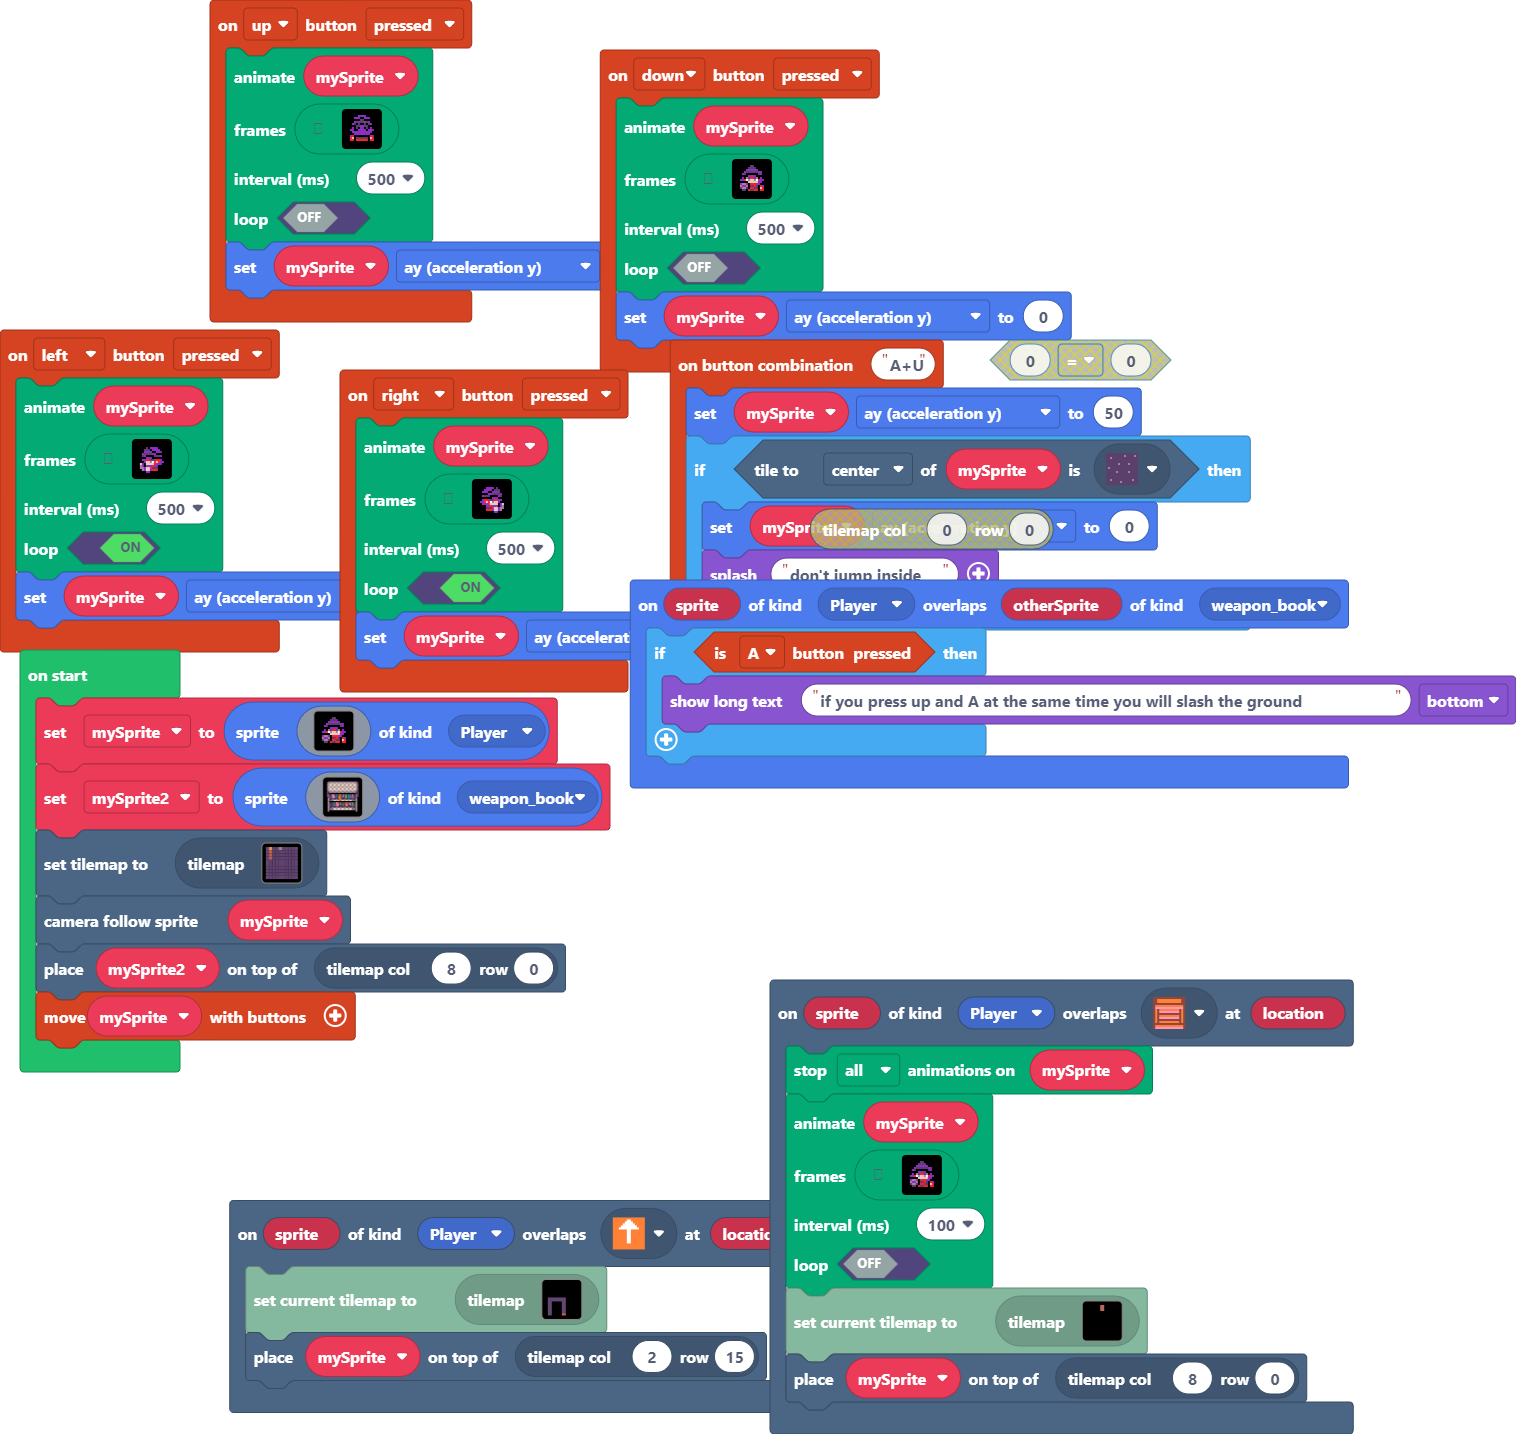
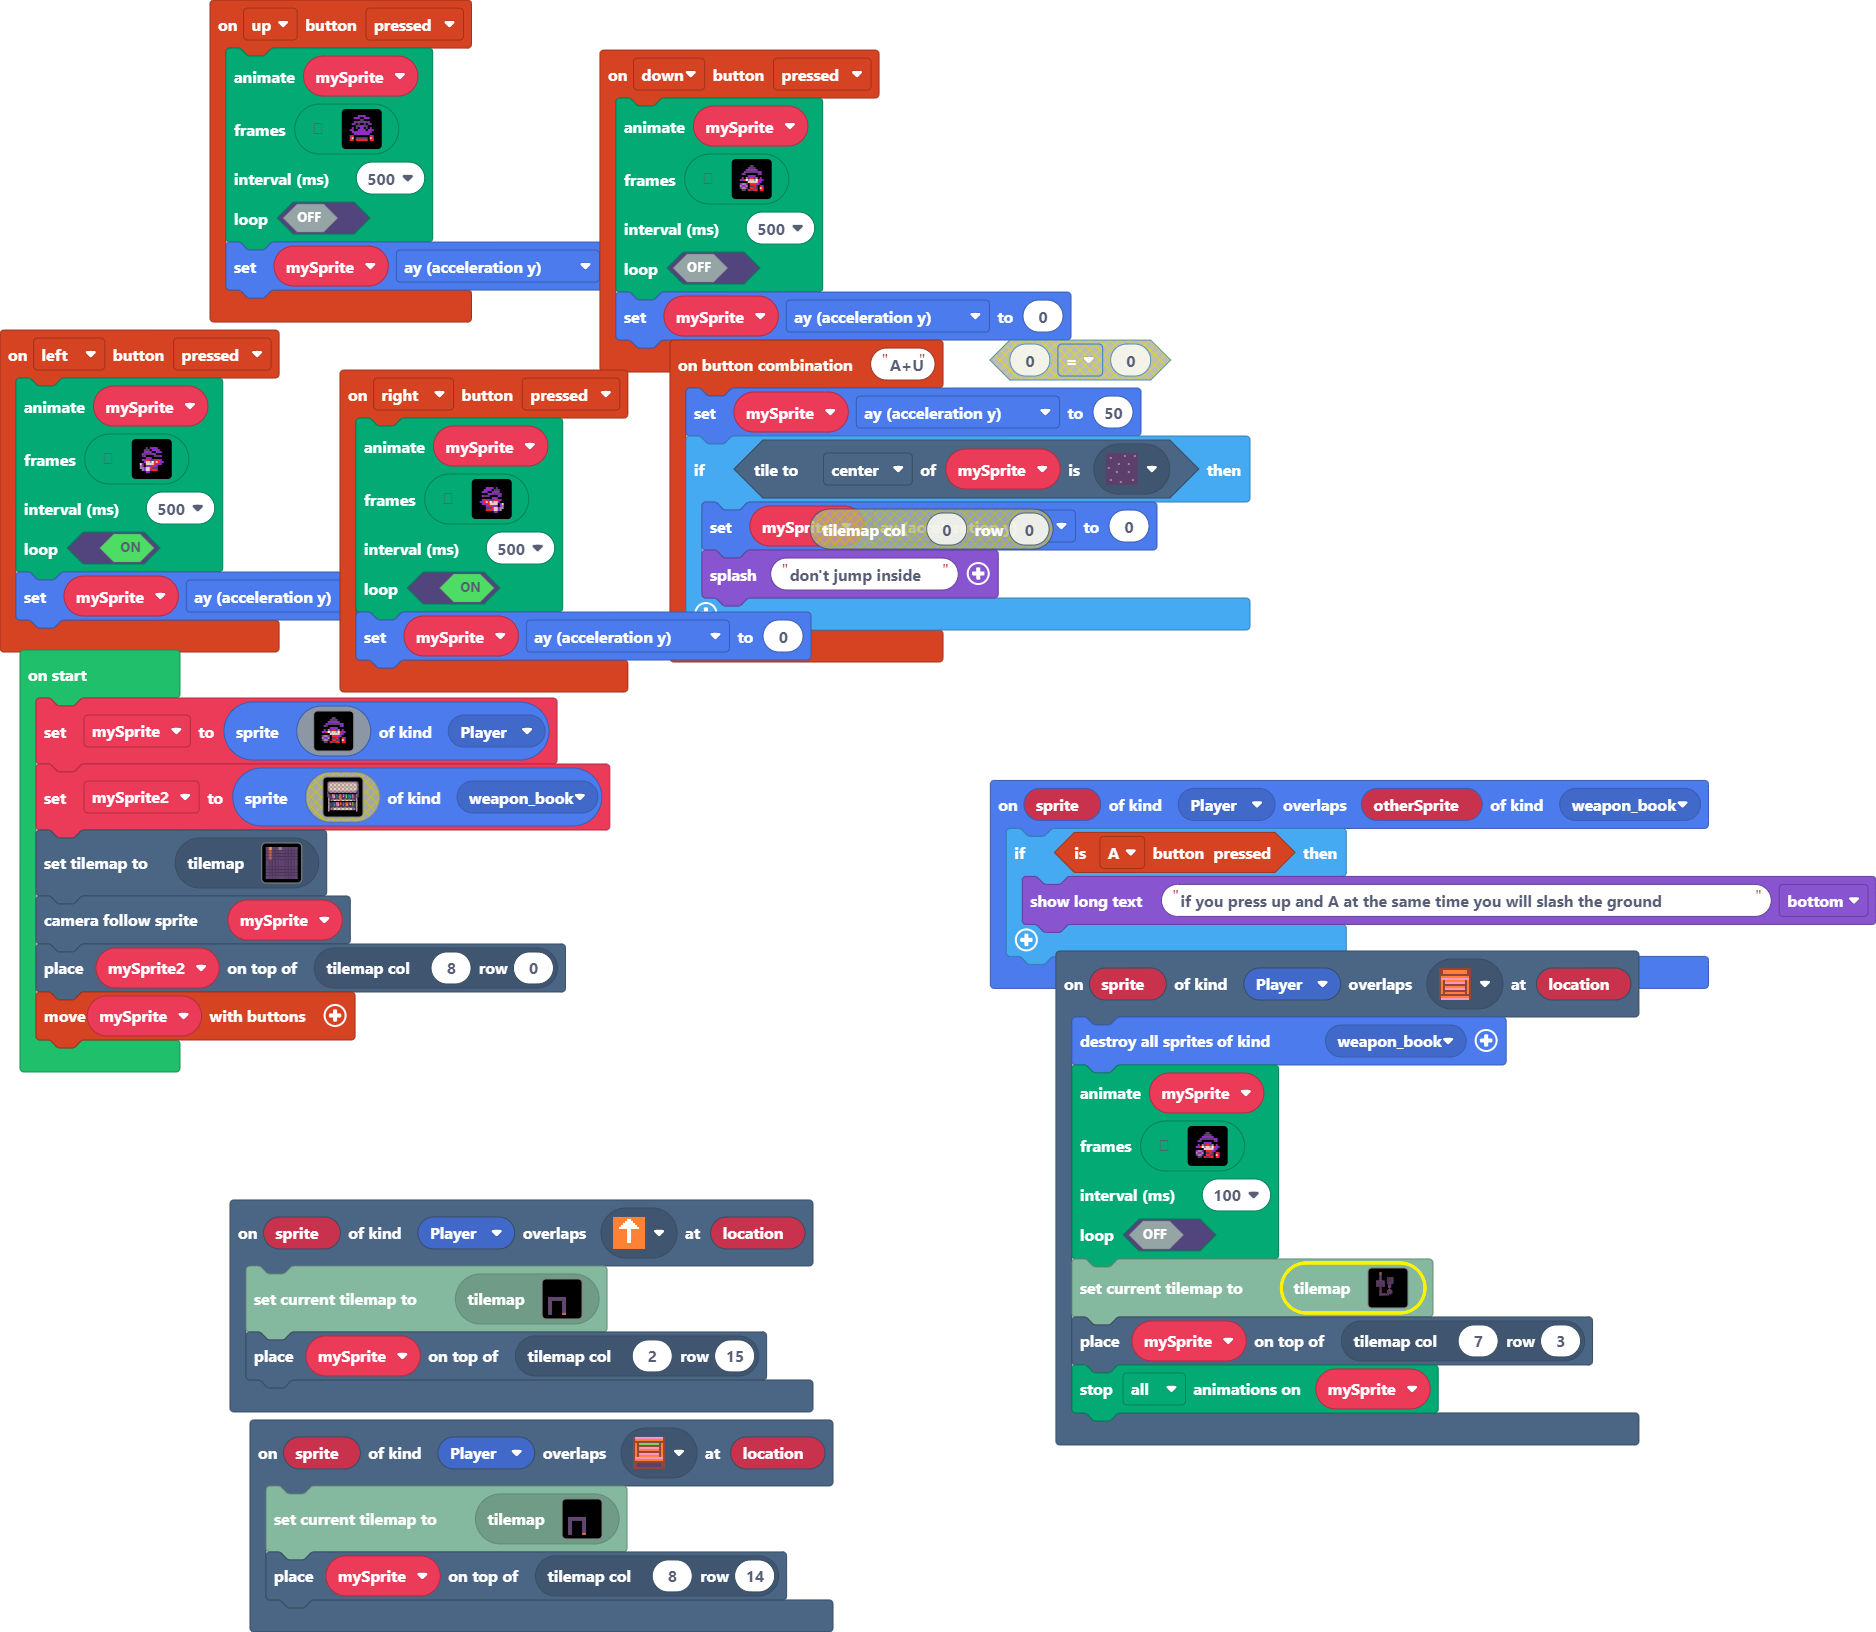
Update main.blocks, main.ts, tilemap.g.jres, tilemap.g.ts

diff --git a/tilemap.g.ts b/tilemap.g.ts
@@ -14,6 +14,12 @@ namespace myTiles {
     export const tile6 = image.ofBuffer(hex``);
     //% fixedInstance jres blockIdentity=images._tile
     export const tile5 = image.ofBuffer(hex``);
+    //% fixedInstance jres blockIdentity=images._tile
+    export const tile7 = image.ofBuffer(hex``);
+    //% fixedInstance jres blockIdentity=images._tile
+    export const tile8 = image.ofBuffer(hex``);
+    //% fixedInstance jres blockIdentity=images._tile
+    export const tile9 = image.ofBuffer(hex``);
 
     helpers._registerFactory("tilemap", function(name: string) {
         switch(helpers.stringTrim(name)) {
@@ -48,26 +54,78 @@ namespace myTiles {
 2 . . 2 . . . 2 . . 2 . . . . . 
 2 . . 2 . . . 2 . . 2 . . . . . 
 2 . . 2 . . . 2 . . 2 . . . . . 
-`, [myTiles.transparency16,sprites.dungeon.darkGroundWest,sprites.dungeon.darkGroundEast,sprites.dungeon.darkGroundNorthWest0,sprites.dungeon.darkGroundNorth,sprites.dungeon.darkGroundSouth,sprites.dungeon.darkGroundCenter,sprites.dungeon.darkGroundNorthEast0,myTiles.tile2,myTiles.tile5,myTiles.tile6], TileScale.Sixteen);
+`, [myTiles.transparency16,sprites.dungeon.darkGroundWest,sprites.dungeon.darkGroundEast,sprites.dungeon.darkGroundNorthWest0,sprites.dungeon.darkGroundNorth,sprites.dungeon.darkGroundSouth,sprites.dungeon.darkGroundCenter,sprites.dungeon.darkGroundNorthEast0,myTiles.tile6], TileScale.Sixteen);
+            case "level4":
+            case "level4":return tiles.createTilemap(hex`1000100000000000000000000000000000000000000000000000000000000000000000000000000000000000000000000000000000000000000000000000000000000000000000000000000000000000000000000000000000000000000000000000000000000000000000000000000000000000000000000000000000000000000000000000000000000000000000000000000000000000000000000000000000000000000000000000000000000000000000000000000000000000000000000000000000000000000000000000000000000000000000000000000000000000000000000000000000000000000000000000000000000000000000000000000000000000`, img`
+. . . . . . . . . . . . . . . . 
+. . . . . . . . . . . . . . . . 
+. . . . . . . . . . . . . . . . 
+. . . . . . . . . . . . . . . . 
+. . . . . . . . . . . . . . . . 
+. . . . . . . . . . . . . . . . 
+. . . . . . . . . . . . . . . . 
+. . . . . . . . . . . . . . . . 
+. . . . . . . . . . . . . . . . 
+. . . . . . . . . . . . . . . . 
+. . . . . . . . . . . . . . . . 
+. . . . . . . . . . . . . . . . 
+. . . . . . . . . . . . . . . . 
+. . . . . . . . . . . . . . . . 
+. . . . . . . . . . . . . . . . 
+. . . . . . . . . . . . . . . . 
+`, [myTiles.transparency16], TileScale.Sixteen);
+            case "level5":
+            case "level5":return tiles.createTilemap(hex`1000100000000000000000000000000000000000000000000000000000000000000000000000000000000000000000000000000000000000000000000000000000000000000000000000000000000000000000000000000000000000000000000000000000000000000000000000000000000000000000000000000000000000000000000000000000000000000000000000000000000000000000000000000000000000000000000000000000000000000000000000000000000000000000000000000000000000000000000000000000000000000000000000000000000000000000000000000000000000000000000000000000000000000000000000000000000000`, img`
+. . . . . . . . . . . . . . . . 
+. . . . . . . . . . . . . . . . 
+. . . . . . . . . . . . . . . . 
+. . . . . . . . . . . . . . . . 
+. . . . . . . . . . . . . . . . 
+. . . . . . . . . . . . . . . . 
+. . . . . . . . . . . . . . . . 
+. . . . . . . . . . . . . . . . 
+. . . . . . . . . . . . . . . . 
+. . . . . . . . . . . . . . . . 
+. . . . . . . . . . . . . . . . 
+. . . . . . . . . . . . . . . . 
+. . . . . . . . . . . . . . . . 
+. . . . . . . . . . . . . . . . 
+. . . . . . . . . . . . . . . . 
+. . . . . . . . . . . . . . . . 
+`, [myTiles.transparency16], TileScale.Sixteen);
             case "level3":
-            case "level3":return tiles.createTilemap(hex`1000100000000000000000010100000000000000000000000000000101000000000000000000000000000001010000000000000000000000000000000000000000000000000000000000000000000000000000000000000000000000000000000000000000000000000000000000000000000000000000000000000000000000000000000000000000000000000000000000000000000000000000000000000000000000000000000000000000000000000000000000000000000000000000000000000000000000000000000000000000000000000000000000000000000000000000000000000000000000000000000000000000000000000000000000000000000000`, img`
-. . . . . . 2 . . 2 . . . . . . 
-. . . . . . 2 . . 2 . . . . . . 
-. . . . . . 2 . . 2 . . . . . . 
-. . . . . . 2 . . 2 . . . . . . 
-. . . . . . . . . . . . . . . . 
-. . . . . . . . . . . . . . . . 
-. . . . . . . . . . . . . . . . 
-. . . . . . . . . . . . . . . . 
-. . . . . . . . . . . . . . . . 
-. . . . . . . . . . . . . . . . 
-. . . . . . . . . . . . . . . . 
-. . . . . . . . . . . . . . . . 
-. . . . . . . . . . . . . . . . 
-. . . . . . . . . . . . . . . . 
-. . . . . . . . . . . . . . . . 
-. . . . . . . . . . . . . . . . 
-`, [myTiles.transparency16,myTiles.tile5], TileScale.Sixteen);
[1 lines of base64/hex data omitted]
+......2..2....................
+......2..2....................
+......2..2....................
+......2..2....................
+......2..2...22222222.........
+......2..2...2......2.........
+......2..2...2......2.........
+...2222..22222......2.........
+...2........22......2.........
+...2........22......2.........
+...2........22......2.........
+...2........2.2...22..........
+...2........2.2...2...........
+...2........2.2...2...........
+...2222..2222.2...2...........
+......2..2.....2.22...........
+......2..2...22...22..........
+......2..2...2.....2..........
+......2..2...2.....2..........
+......2..22222.....2..........
+......2...........22..........
+......2.........222...........
+......22222222222.............
+..............................
+..............................
+..............................
+..............................
+..............................
+..............................
+..............................
+`, [myTiles.transparency16,myTiles.tile5,sprites.dungeon.darkGroundCenter,sprites.dungeon.darkGroundWest,sprites.dungeon.darkGroundEast,sprites.dungeon.darkGroundSouthEast0,sprites.dungeon.darkGroundSouthWest0,sprites.dungeon.darkGroundSouth,sprites.dungeon.darkGroundNorthWest0,sprites.dungeon.darkGroundNorthEast0,myTiles.tile7,sprites.dungeon.darkGroundNorth,myTiles.tile9], TileScale.Sixteen);
         }
         return null;
     })
@@ -87,6 +145,12 @@ namespace myTiles {
             case "tile6":return tile6;
             case "myTile3":
             case "tile5":return tile5;
+            case "myTile5":
+            case "tile7":return tile7;
+            case "myTile6":
+            case "tile8":return tile8;
+            case "myTile7":
+            case "tile9":return tile9;
         }
         return null;
     })

diff --git a/main.ts b/main.ts
@@ -83,7 +83,7 @@ controller.up.onEvent(ControllerButtonEvent.Pressed, function () {
     mySprite.ay = 0
 })
 scene.onOverlapTile(SpriteKind.Player, assets.tile`myTile4`, function (sprite, location) {
-    animation.stopAnimation(animation.AnimationTypes.All, mySprite)
+    sprites.destroyAllSpritesOfKind(SpriteKind.weapon_book)
     animation.runImageAnimation(
     mySprite,
     [img`
@@ -346,7 +346,8 @@ scene.onOverlapTile(SpriteKind.Player, assets.tile`myTile4`, function (sprite, l
     false
     )
     tiles.loadMap(tiles.createMap(tilemap`level3`))
-    tiles.placeOnTile(mySprite, tiles.getTileLocation(8, 0))
+    tiles.placeOnTile(mySprite, tiles.getTileLocation(7, 3))
+    animation.stopAnimation(animation.AnimationTypes.All, mySprite)
 })
 controller.left.onEvent(ControllerButtonEvent.Pressed, function () {
     animation.runImageAnimation(
@@ -424,6 +425,10 @@ controller.left.onEvent(ControllerButtonEvent.Pressed, function () {
     true
     )
     mySprite.ay = 0
+})
+scene.onOverlapTile(SpriteKind.Player, assets.tile`myTile3`, function (sprite, location) {
+    tiles.loadMap(tiles.createMap(tilemap`level2`))
+    tiles.placeOnTile(mySprite, tiles.getTileLocation(8, 14))
 })
 controller.combos.attachCombo("A+U", function () {
     mySprite.ay = 50
